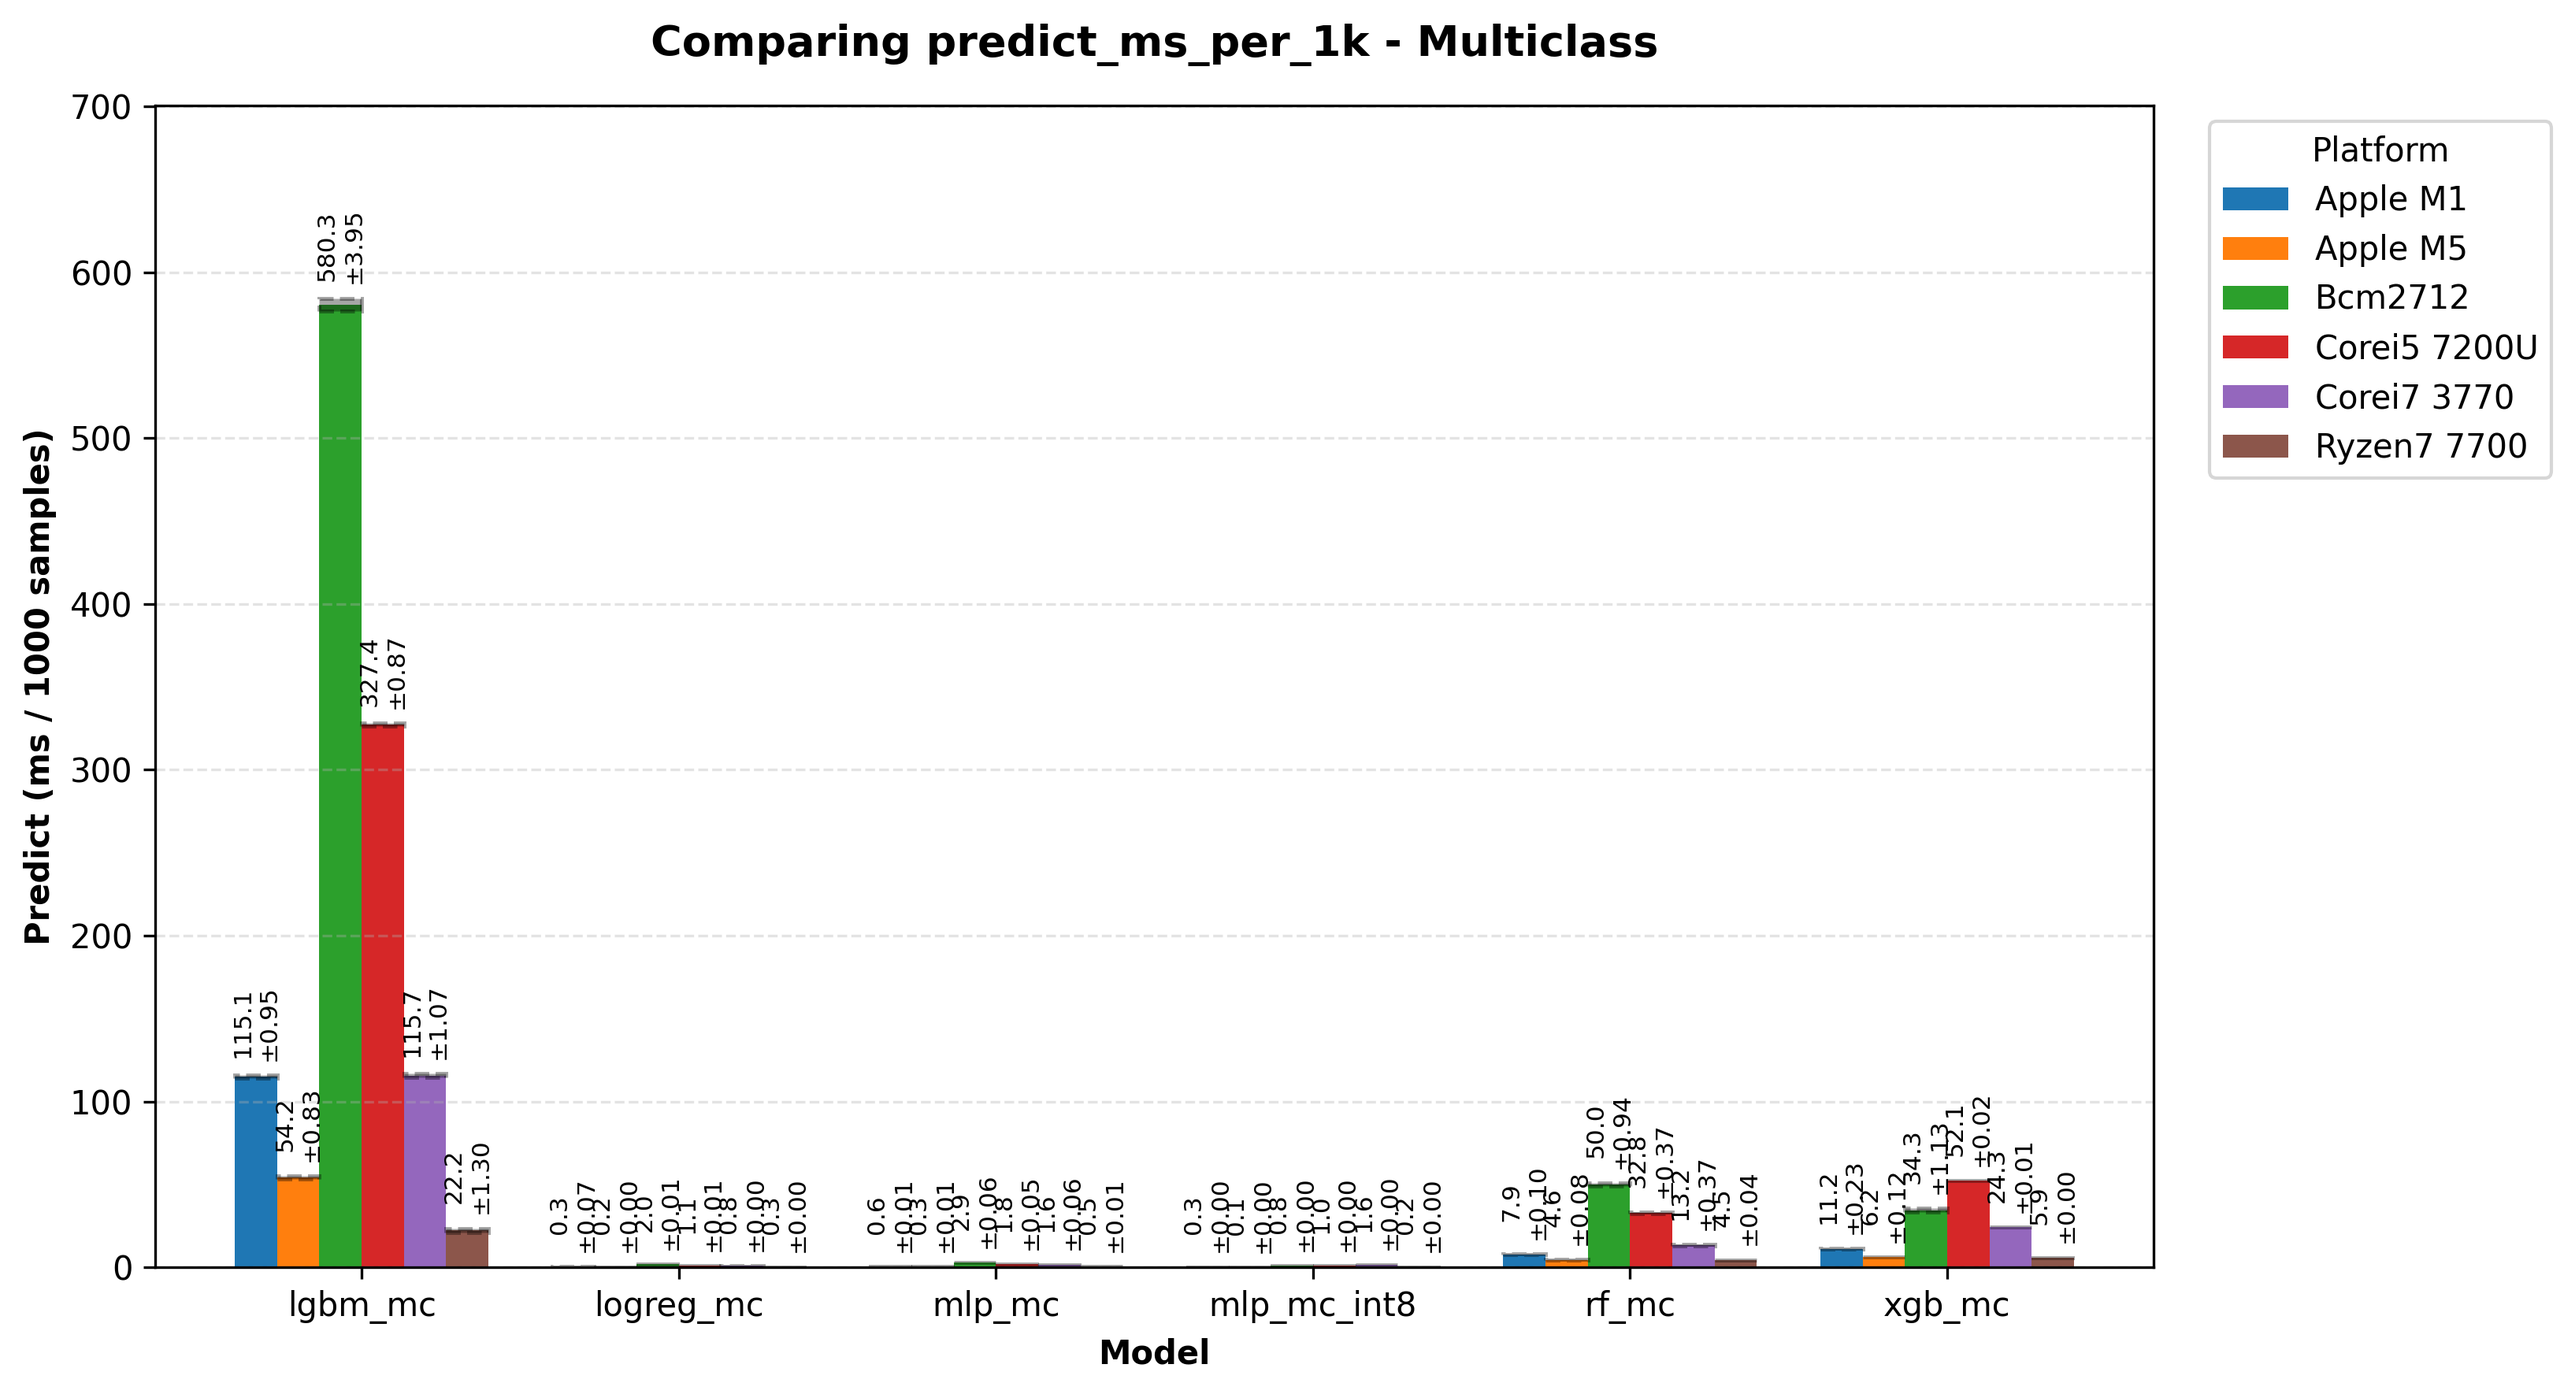
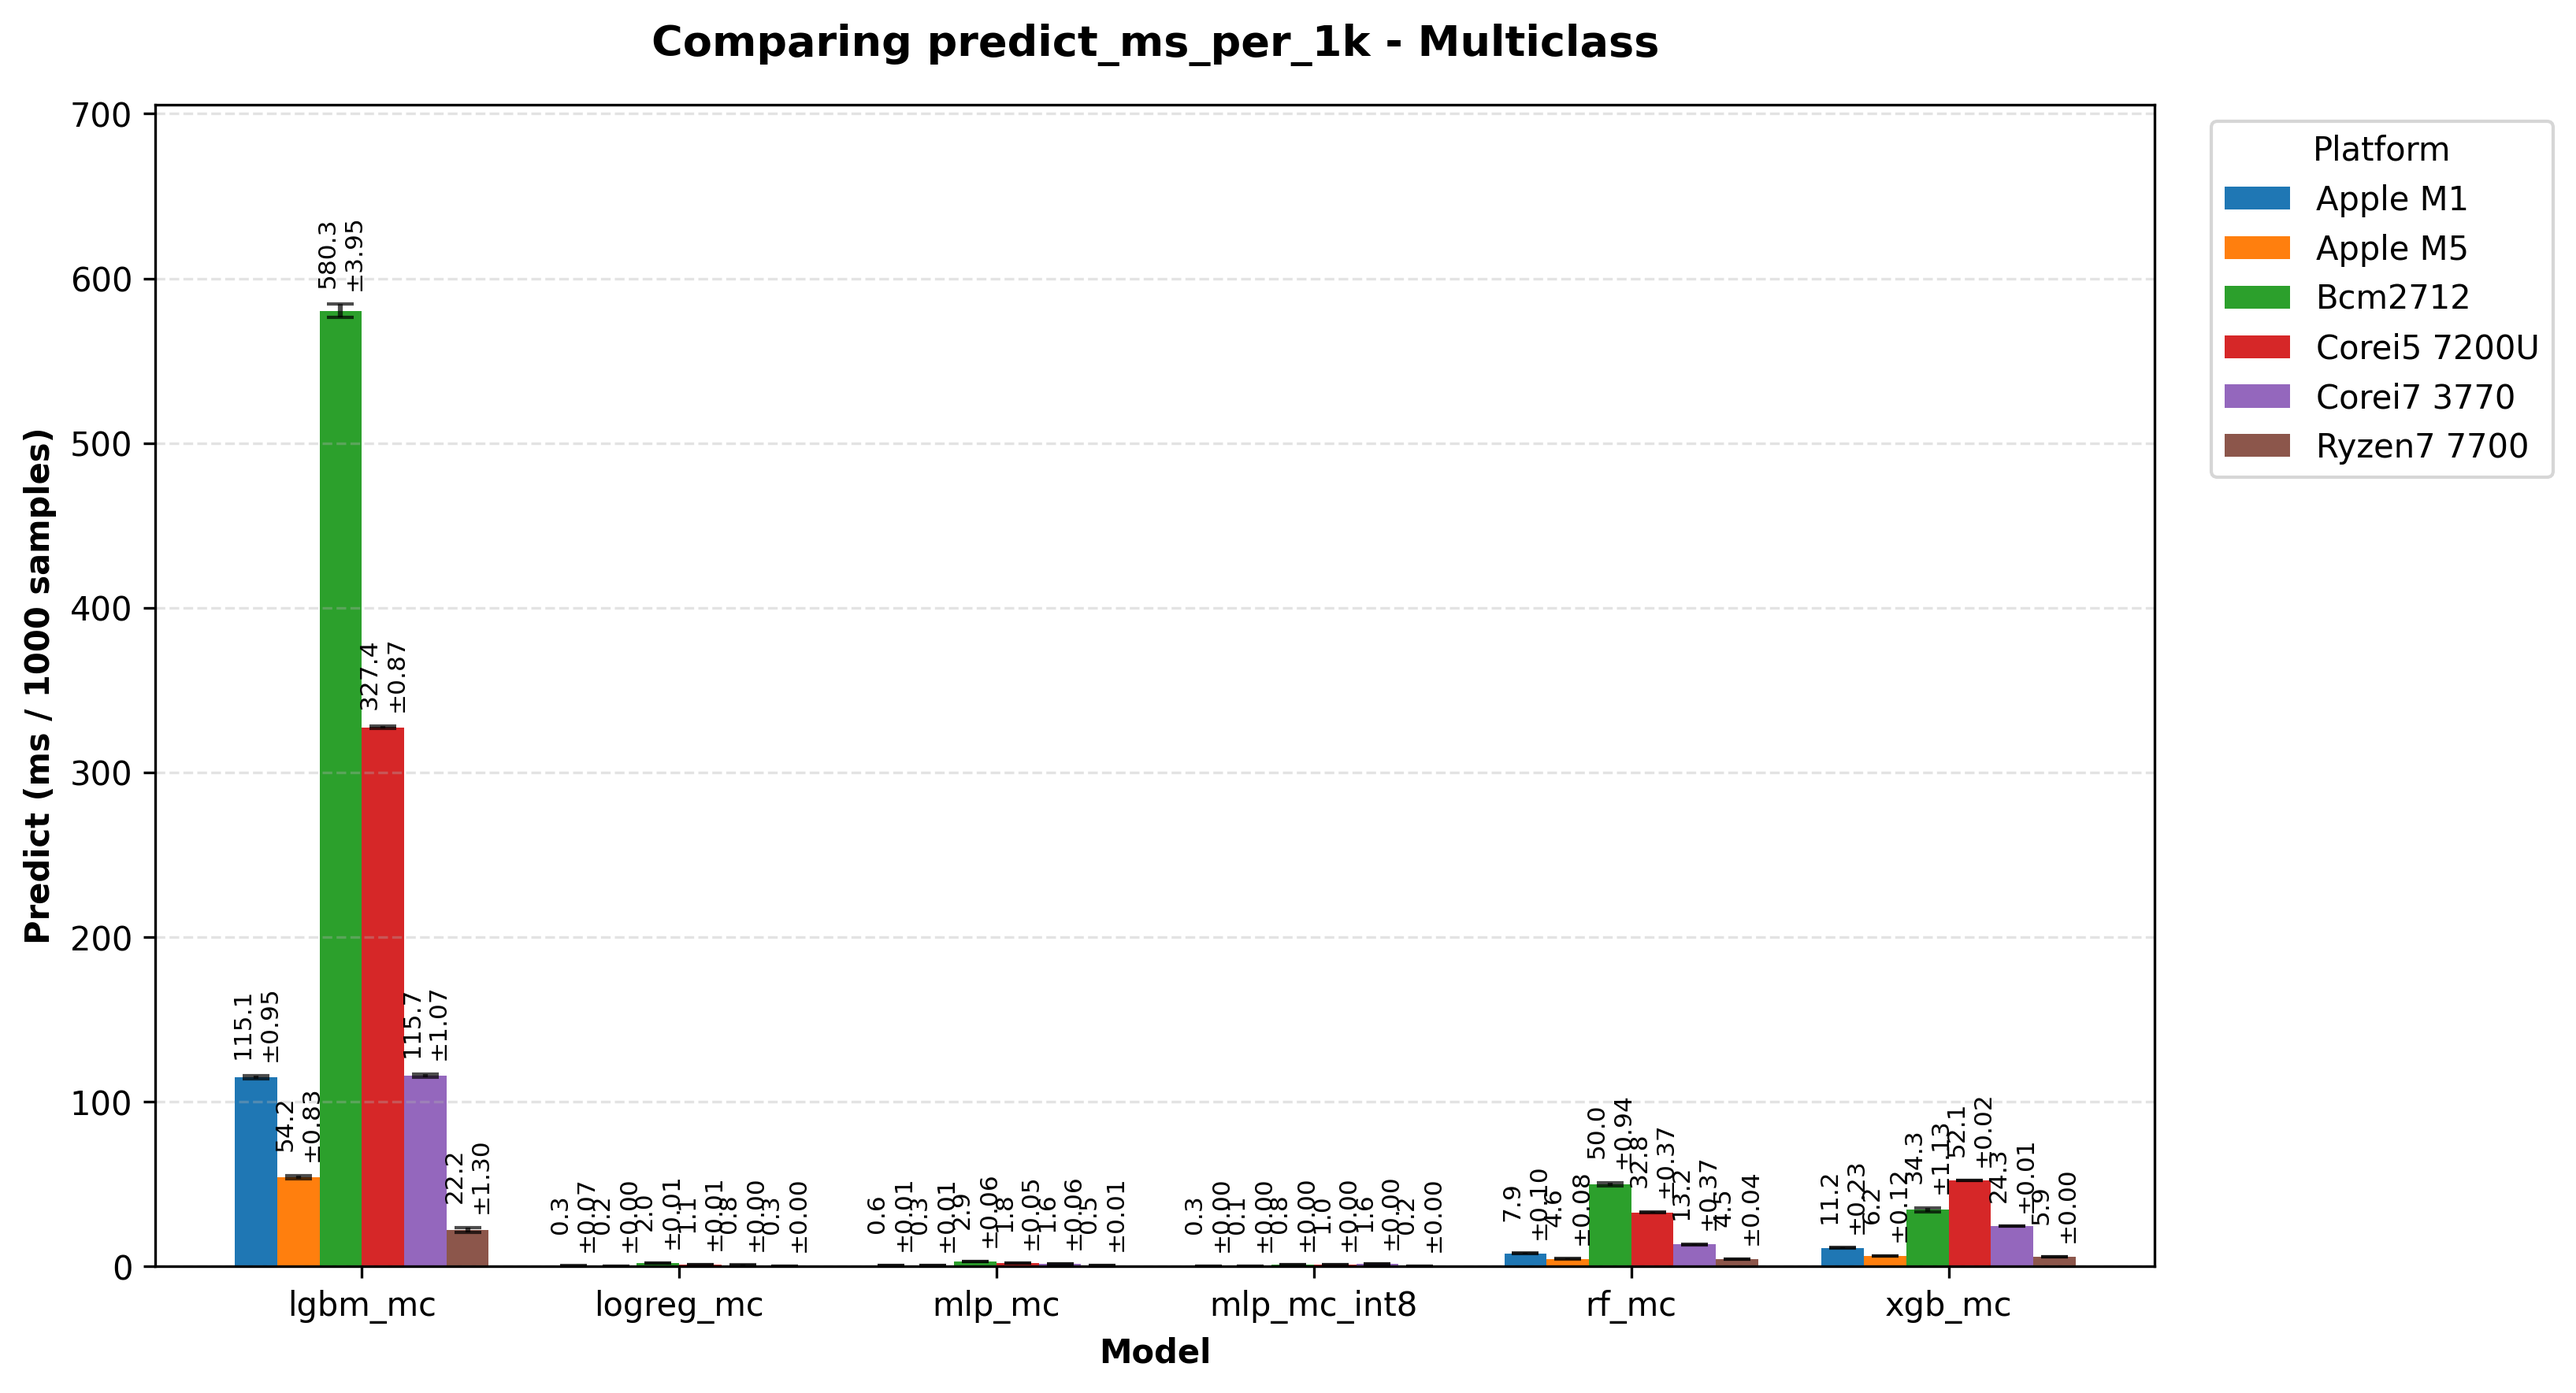
Update bar charts

diff --git a/scripts/benchmark_bars.py b/scripts/benchmark_bars.py
@@ -182,7 +182,7 @@ def main() -> None:
     parser = argparse.ArgumentParser()
     parser.add_argument("--input-dir", type=Path, default=Path("benchmark"))
     parser.add_argument("--output-dir", type=Path, default=Path("benchmark/charts"))
-    parser.add_argument("--style", choices=["overlay", "yerr", "text"], default="overlay")
+    parser.add_argument("--style", choices=["overlay", "yerr", "text"], default="yerr")
     args = parser.parse_args()
 
     data = load_all_benchmarks(args.input_dir)

diff --git a/README.md b/README.md
@@ -127,7 +127,7 @@ bash benchmark.sh 001 apple_m5
 python scripts/run_mann-whitney.py --benchmark benchmark/001 --aarch64 bcm2712,apple_m1,apple_m5 --x64 corei7_3770,corei5_7200U,ryzen7_7700
 
 # 7) Plot platform comparison bars
-python scripts/benchmark_bars.py --input-dir benchmark/001 --output-dir benchmark/001/charts
+python scripts/benchmark_bars.py --style yerr --input-dir benchmark/001 --output-dir benchmark/001/charts
 ```
 
 ## Artifact layout
